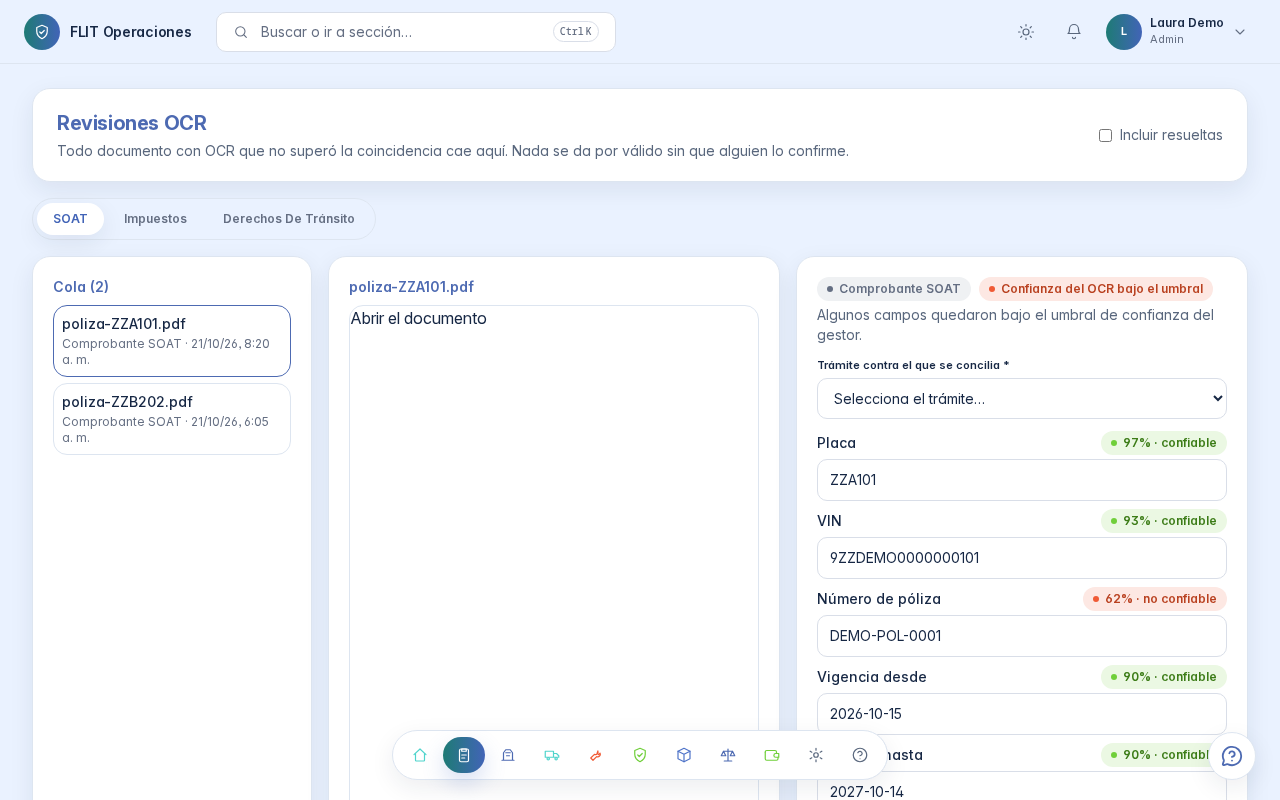
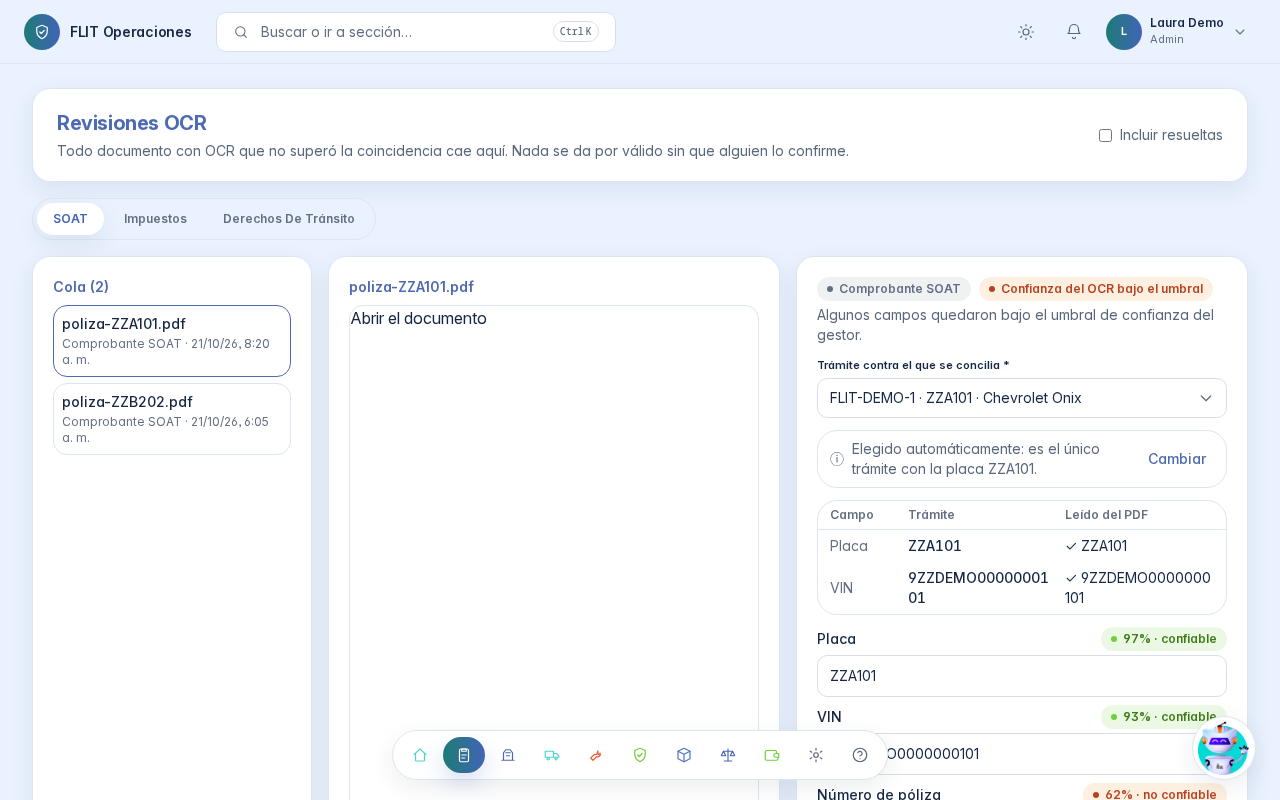
docs(ayuda): la ficha de Revisiones OCR explica el buscador de trámite, la elección automática y el error con Reintentar, con capturas nuevas (BUG #14569)

Changed region(s): [[0.625, 0.4688, 1.0, 1.0]]

diff --git a/apps/api/src/modules/flito-dr-flit/ayuda/fichas-ayuda.generated.ts b/apps/api/src/modules/flito-dr-flit/ayuda/fichas-ayuda.generated.ts
@@ -319,8 +319,8 @@ export const FICHAS_AYUDA: readonly FichaAyudaApi[] = Object.freeze([
     "permiso": "flito_revisiones",
     "etiqueta": "Revisiones OCR",
     "resumen": "Cola de confirmación de campos leídos.",
-    "version": "1.2",
-    "fecha": "2026-10-22",
+    "version": "1.3",
+    "fecha": "2026-11-17",
     "palabrasClave": [
       "revisiones",
       "OCR",
@@ -329,7 +329,8 @@ export const FICHAS_AYUDA: readonly FichaAyudaApi[] = Object.freeze([
     ],
     "consultas": [
       "cómo confirmo los campos que leyó el OCR",
-      "por qué un documento quedó en revisión"
+      "por qué un documento quedó en revisión",
+      "cómo busco el trámite de un documento en revisión"
     ],
     "secciones": [
       {
@@ -350,12 +351,12 @@ export const FICHAS_AYUDA: readonly FichaAyudaApi[] = Object.freeze([
       {
         "ancla": "pasos",
         "titulo": "Pasos",
-        "texto": "Elija el grupo: SOAT, Impuestos (incluye las facturas de venta) o Derechos de tránsito. Marque Incluir resueltas, arriba a la derecha, si necesita ver también las ya cerradas. En Cola, a la izquierda, pulse el archivo; la primera de la lista viene elegida. En el centro aparece el documento; si el visor no lo muestra, use Abrir el documento. A la derecha, el tipo de documento, el motivo por el que llegó (por ejemplo, Confianza del OCR bajo el umbral) y los campos leídos, cada uno con su confianza: confiable, no confiable o Sin lectura. Revisiones OCR con la cola de dos pólizas a la izquierda, el documento en el centro y los campos leídos con su porcentaje de confianza a la derecha En Trámite contra el que se concilia, elija el trámite (Selecciona el trámite…); el que coincide con la placa leída lo dice entre paréntesis. Aparece una tabla que compara Placa y VIN del trámite con lo Leído del PDF, con ✓ si cruzan y ✗ si no. Corrija en cada campo el valor que no corresponda. Trámite elegido en el selector y tabla que compara placa y VIN del trámite con lo leído del PDF, ambos con marca de coincidencia Pulse Confirmar y resolver (solo se habilita con un trámite elegido). Escriba en Deja constancia de qué validaste y pulse Resolver, o Cancelar para volver. Si el documento no corresponde a ningún trámite, pulse Descartar documento, escriba el Motivo del descarte (mín. 5 caracteres) y pulse Descartar. Recuadro Deja constancia de qué validaste con el botón Resolver y Cancelar debajo de los campos Al resolver o descartar, el documento sale de la cola. Una revisión ya cerrada (con Incluir resueltas) muestra Resuelta y sus campos no se editan. Diagrama: el documento en la cola, elegir el trámite y revisar los campos; si corresponde, Confirmar y resolver con constancia; si no, Descartar documento con motivo"
+        "texto": "Elija el grupo: SOAT, Impuestos (incluye las facturas de venta) o Derechos de tránsito. Marque Incluir resueltas, arriba a la derecha, si necesita ver también las ya cerradas. En Cola, a la izquierda, pulse el archivo; la primera de la lista viene elegida. En el centro aparece el documento; si el visor no lo muestra, use Abrir el documento. A la derecha, el tipo de documento, el motivo por el que llegó (por ejemplo, Confianza del OCR bajo el umbral) y los campos leídos, cada uno con su confianza: confiable, no confiable o Sin lectura. Revisiones OCR con la cola de dos pólizas a la izquierda, el documento en el centro y los campos leídos con su porcentaje de confianza a la derecha En Trámite contra el que se concilia, el trámite aparece elegido cuando es el único que coincide con la placa o el VIN del documento; lo indica el aviso Elegido automáticamente, y puede pulsar Cambiar para elegir otro. Si no viene elegido, pulse el campo y escriba la placa, el VIN o el número FLIT: la lista muestra el número FLIT y la placa de cada trámite, y marca Coincide placa, Coincide VIN o Coincide placa y VIN. Si aparece Hay más trámites que coinciden, escriba más caracteres para afinar. Al elegirlo, aparece una tabla que compara Placa y VIN del trámite con lo Leído del PDF, con ✓ si cruzan y ✗ si no. Corrija en cada campo el valor que no corresponda; si corrige la placa y ya no es la del trámite elegido, un aviso se lo dice y Buscar con la placa nueva le muestra los trámites que sí coinciden. Trámite elegido automáticamente en el buscador y tabla que compara placa y VIN del trámite con lo leído del PDF, ambos con marca de coincidencia Pulse Confirmar y resolver (solo se habilita con un trámite elegido). Escriba en Deja constancia de qué validaste y pulse Resolver, o Cancelar para volver. Si el documento no corresponde a ningún trámite, pulse Descartar documento, escriba el Motivo del descarte (mín. 5 caracteres) y pulse Descartar. Recuadro Deja constancia de qué validaste con el botón Resolver y Cancelar debajo de los campos Al resolver o descartar, el documento sale de la cola. Una revisión ya cerrada (con Incluir resueltas) muestra Resuelta y sus campos no se editan. Diagrama: el documento en la cola, elegir el trámite y revisar los campos; si corresponde, Confirmar y resolver con constancia; si no, Descartar documento con motivo"
       },
       {
         "ancla": "estados",
         "titulo": "Estados",
-        "texto": "Cargando: Cargando documento… en el visor mientras llega el archivo. Error: el recuadro de constancia o de descarte muestra el mensaje si falla la confirmación o el descarte. Vacío: No hay nada en revisión. Cuando una extracción no supere el umbral o su llave no cruce, el documento aparecerá aquí. El mismo mensaje se ve si la cola no se pudo consultar. Lleno: cola a la izquierda, documento al centro y campos a la derecha (en pantallas pequeñas, uno debajo del otro)."
+        "texto": "Cargando: Cargando documento… en el visor mientras llega el archivo. Error: el recuadro de constancia o de descarte muestra el mensaje si falla la confirmación o el descarte. Si la búsqueda de trámites falla, el campo muestra No pudimos buscar los trámites. con Reintentar. Vacío: No hay nada en revisión. Cuando una extracción no supere el umbral o su llave no cruce, el documento aparecerá aquí. El mismo mensaje se ve si la cola no se pudo consultar. Lleno: cola a la izquierda, documento al centro y campos a la derecha (en pantallas pequeñas, uno debajo del otro)."
       },
       {
         "ancla": "que-no-hace",

diff --git a/apps/web/e2e/tests/ayuda-capturas.capturas.spec.ts b/apps/web/e2e/tests/ayuda-capturas.capturas.spec.ts
@@ -1241,7 +1241,14 @@ test.describe('Ayuda FLITO — capturas con datos demo @capturas', () => {
         body: new URL(route.request().url()).searchParams.get('modulo') === 'soat' ? REVISIONES_DEMO : [],
       })],
       [/\/api\/flito\/revisiones\/campos\/soat$/, () => ({ body: REVISION_CAMPOS_SOAT })],
-      [/\/api\/flito\/soat$/, () => ({ body: REVISION_CANDIDATOS_SOAT })],
+      // BUG #14569: el buscador recibe placa/VIN en el body y devuelve las coincidencias exactas.
+      [/\/api\/flito\/revisiones\/[^/]+\/candidatos\/buscar$/, (route) => {
+        const b = (route.request().postDataJSON() ?? {}) as { placa?: string; vin?: string };
+        const items = REVISION_CANDIDATOS_SOAT
+          .map((c) => ({ ...c, coincide: { placa: !!b.placa && c.placa === b.placa, vin: !!b.vin && c.vin === b.vin } }))
+          .filter((c) => c.coincide.placa || c.coincide.vin);
+        return { body: { items, total: items.length, truncado: false, registroActual: null } };
+      }],
       [/\/api\/flito\/revisiones\/soporte\/[^/]+\/archivo$/, () => ({ body: PDF_DEMO, contentType: 'application/pdf' })],
     ]);
     await entrarComoAdminDemo(page);
@@ -1254,7 +1261,8 @@ test.describe('Ayuda FLITO — capturas con datos demo @capturas', () => {
     await capturar(page, dir, '01-cola-y-documento');
 
     // Paso 3 — Elegir el trámite y revisar los campos.
-    await page.getByLabel('Trámite contra el que se concilia *').selectOption('soat-demo-1');
+    // BUG #14569: con un único trámite que coincide con la placa leída, viene elegido solo.
+    await expect(page.getByText(/Elegido automáticamente/)).toBeVisible();
     await expect(page.getByText('Leído del PDF')).toBeVisible();
     await sinFoco(page);
     await capturar(page, dir, '02-revisar-campos');

diff --git a/apps/web/e2e/helpers/datos-demo.ts b/apps/web/e2e/helpers/datos-demo.ts
@@ -766,9 +766,11 @@ export const REVISIONES_DEMO = [
 ];
 export const REVISION_CAMPOS_SOAT = ['placa', 'vin', 'numeroPoliza', 'vigenciaDesde', 'vigenciaHasta', 'valorTotal', 'aseguradora'];
 /** Candidatos del selector «Trámite contra el que se concilia» (lista corta de la cola SOAT). */
+// BUG #14569: forma de `CandidatoRevisionDto` (buscador `POST /flito/revisiones/:id/candidatos/buscar`).
+// `coincide` se calcula en el interceptor contra la placa/VIN del body, como hace el servidor.
 export const REVISION_CANDIDATOS_SOAT = [
-  { id: 'soat-demo-1', vin: V[0], placa: P[0], marca: 'Chevrolet', linea: 'Onix' },
-  { id: 'soat-demo-2', vin: V[2], placa: P[2], marca: 'Renault', linea: 'Duster' },
+  { id: 'soat-demo-1', idFlit: 'FLIT-DEMO-1', vin: V[0], placa: P[0], etiqueta: `FLIT-DEMO-1 · ${P[0]}`, detalle: 'Chevrolet Onix', seleccionable: true, motivoNoSeleccionable: null },
+  { id: 'soat-demo-2', idFlit: 'FLIT-DEMO-2', vin: V[2], placa: P[2], etiqueta: `FLIT-DEMO-2 · ${P[2]}`, detalle: 'Renault Duster', seleccionable: true, motivoNoSeleccionable: null },
 ];
 /** PDF mínimo del soporte (una página con texto «documento demo»). */
 export const PDF_DEMO = '%PDF-1.4\n1 0 obj<</Type/Catalog/Pages 2 0 R>>endobj\n2 0 obj<</Type/Pages/Kids[3 0 R]/Count 1>>endobj\n'

diff --git a/apps/web/src/content/ayuda/flito_revisiones.md b/apps/web/src/content/ayuda/flito_revisiones.md
@@ -8,8 +8,9 @@ palabras_clave:
 consultas:
   - cómo confirmo los campos que leyó el OCR
   - por qué un documento quedó en revisión
-version: 1.2
-fecha: 2026-10-22
+  - cómo busco el trámite de un documento en revisión
+version: 1.3
+fecha: 2026-11-17
 ---
 ## Qué es
 
@@ -27,7 +28,7 @@ En la barra de navegación al pie de la pantalla, pulse **Gestión** y, en el pa
 
 1. Elija el grupo: **SOAT**, **Impuestos** (incluye las facturas de venta) o **Derechos de tránsito**. Marque **Incluir resueltas**, arriba a la derecha, si necesita ver también las ya cerradas.
 2. En **Cola**, a la izquierda, pulse el archivo; la primera de la lista viene elegida. En el centro aparece el documento; si el visor no lo muestra, use **Abrir el documento**. A la derecha, el tipo de documento, el motivo por el que llegó (por ejemplo, **Confianza del OCR bajo el umbral**) y los campos leídos, cada uno con su confianza: **confiable**, **no confiable** o **Sin lectura**. ![Revisiones OCR con la cola de dos pólizas a la izquierda, el documento en el centro y los campos leídos con su porcentaje de confianza a la derecha](./flito_revisiones/01-cola-y-documento.png)
-3. En **Trámite contra el que se concilia**, elija el trámite (**Selecciona el trámite…**); el que coincide con la placa leída lo dice entre paréntesis. Aparece una tabla que compara **Placa** y **VIN** del trámite con lo **Leído del PDF**, con ✓ si cruzan y ✗ si no. Corrija en cada campo el valor que no corresponda. ![Trámite elegido en el selector y tabla que compara placa y VIN del trámite con lo leído del PDF, ambos con marca de coincidencia](./flito_revisiones/02-revisar-campos.png)
+3. En **Trámite contra el que se concilia**, el trámite aparece elegido cuando es el único que coincide con la placa o el VIN del documento; lo indica el aviso **Elegido automáticamente**, y puede pulsar **Cambiar** para elegir otro. Si no viene elegido, pulse el campo y escriba la placa, el VIN o el número FLIT: la lista muestra el número FLIT y la placa de cada trámite, y marca **Coincide placa**, **Coincide VIN** o **Coincide placa y VIN**. Si aparece **Hay más trámites que coinciden**, escriba más caracteres para afinar. Al elegirlo, aparece una tabla que compara **Placa** y **VIN** del trámite con lo **Leído del PDF**, con ✓ si cruzan y ✗ si no. Corrija en cada campo el valor que no corresponda; si corrige la placa y ya no es la del trámite elegido, un aviso se lo dice y **Buscar con** la placa nueva le muestra los trámites que sí coinciden. ![Trámite elegido automáticamente en el buscador y tabla que compara placa y VIN del trámite con lo leído del PDF, ambos con marca de coincidencia](./flito_revisiones/02-revisar-campos.png)
 4. Pulse **Confirmar y resolver** (solo se habilita con un trámite elegido). Escriba en **Deja constancia de qué validaste** y pulse **Resolver**, o **Cancelar** para volver. Si el documento no corresponde a ningún trámite, pulse **Descartar documento**, escriba el **Motivo del descarte (mín. 5 caracteres)** y pulse **Descartar**. ![Recuadro Deja constancia de qué validaste con el botón Resolver y Cancelar debajo de los campos](./flito_revisiones/03-constancia.png)
 5. Al resolver o descartar, el documento sale de la cola. Una revisión ya cerrada (con **Incluir resueltas**) muestra **Resuelta** y sus campos no se editan.
 
@@ -36,7 +37,7 @@ En la barra de navegación al pie de la pantalla, pulse **Gestión** y, en el pa
 ## Estados
 
 - Cargando: **Cargando documento…** en el visor mientras llega el archivo.
-- Error: el recuadro de constancia o de descarte muestra el mensaje si falla la confirmación o el descarte.
+- Error: el recuadro de constancia o de descarte muestra el mensaje si falla la confirmación o el descarte. Si la búsqueda de trámites falla, el campo muestra **No pudimos buscar los trámites.** con **Reintentar**.
 - Vacío: **No hay nada en revisión. Cuando una extracción no supere el umbral o su llave no cruce, el documento aparecerá aquí.** El mismo mensaje se ve si la cola no se pudo consultar.
 - Lleno: cola a la izquierda, documento al centro y campos a la derecha (en pantallas pequeñas, uno debajo del otro).
 
